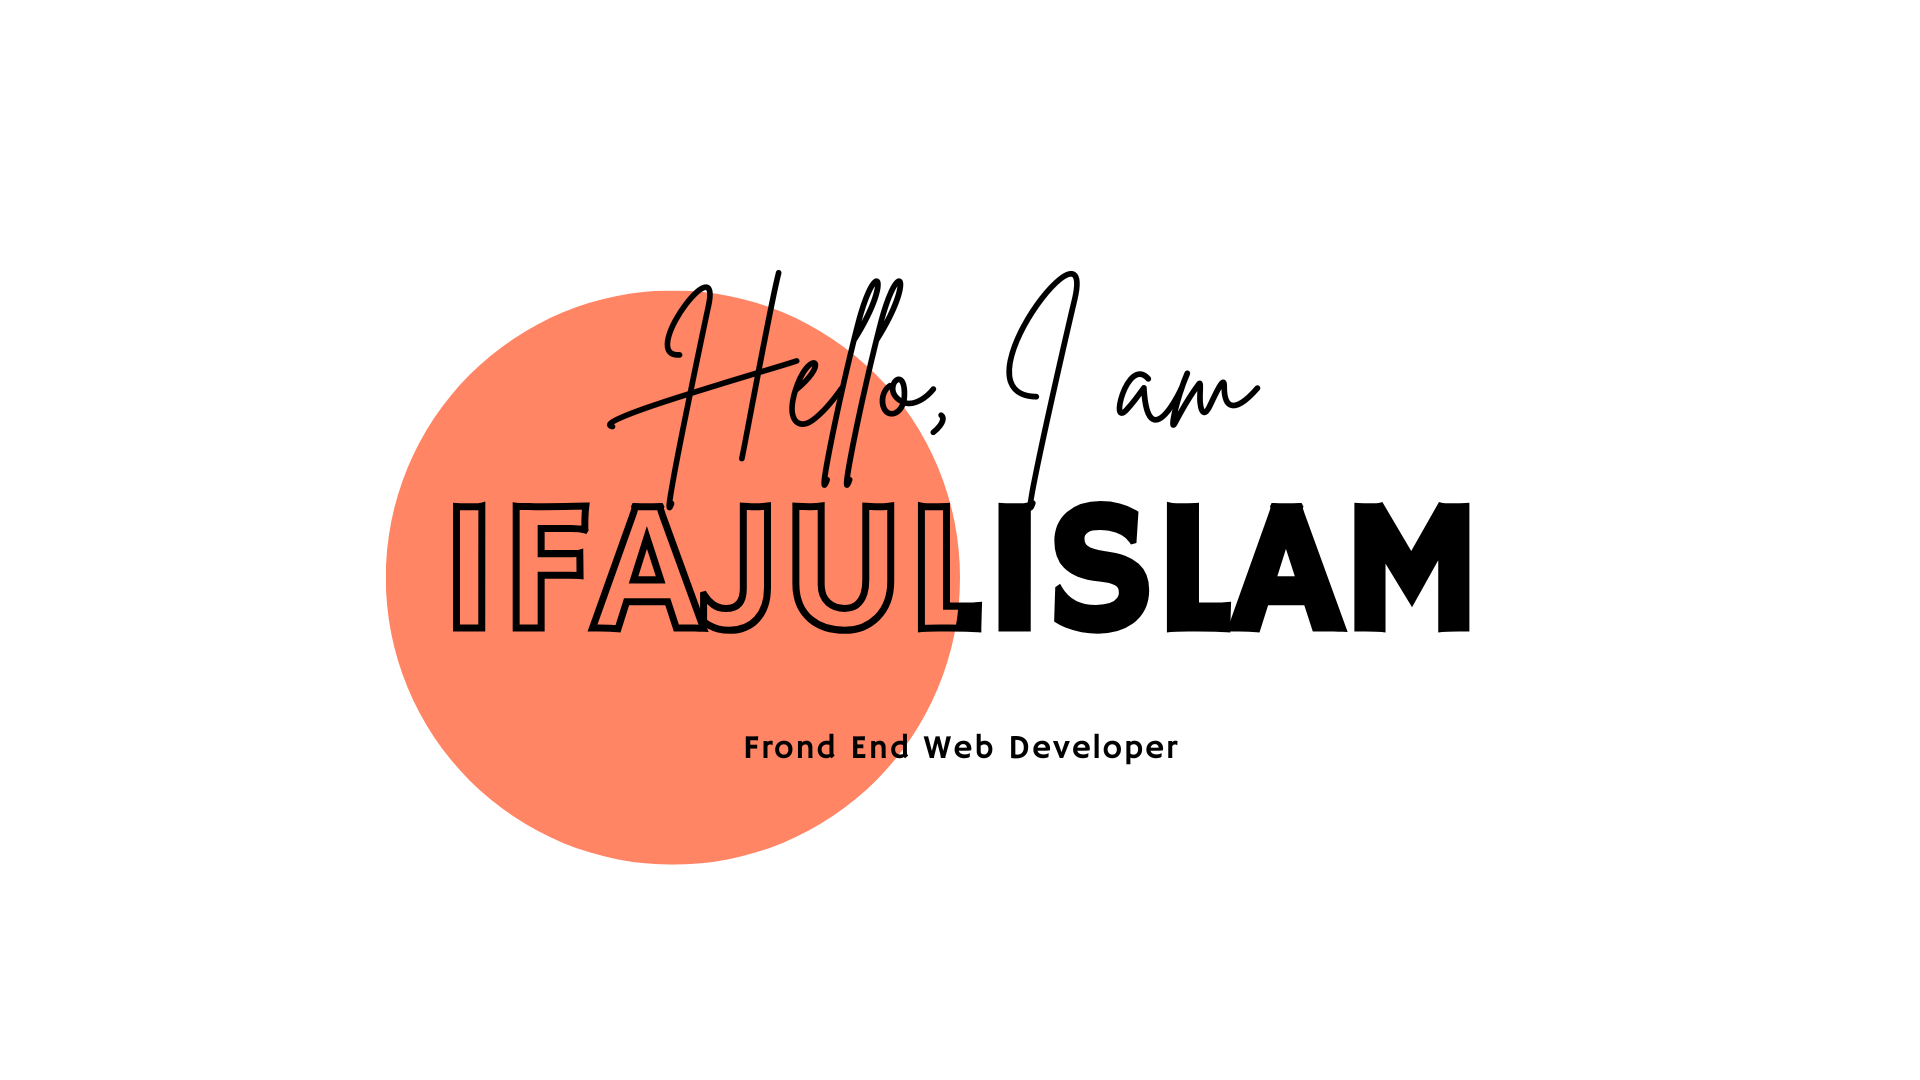
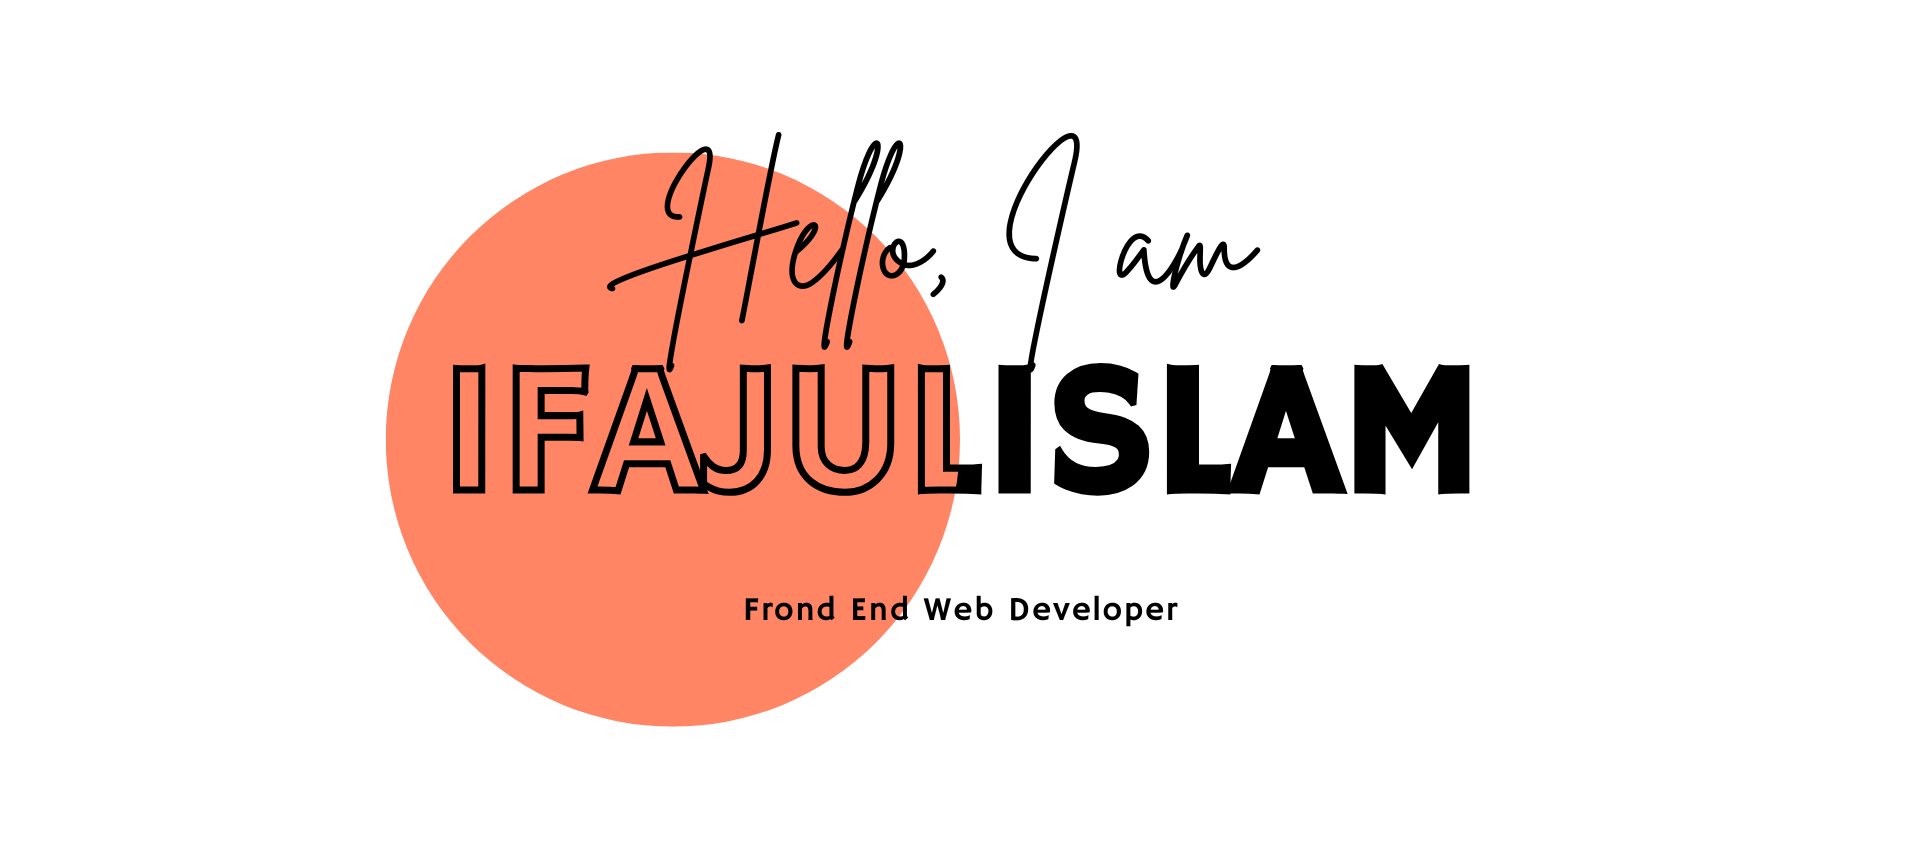
updated image size

Changed region(s): [[0.1875, 0.1519, 0.7812, 0.6075], [0.2188, 0.6682, 0.625, 0.8505], [0.75, 0.5771, 0.7812, 0.6075]]

diff --git a/README.md b/README.md
@@ -5,7 +5,7 @@
 <br clear="both">
 
 <div align="center">
-  <img height="300" width-="100%" src="/images/redme-banner.png"  />
+  <img height="200" width-="100%" src="/images/redme-banner.png"  />
 </div>
 
 ###
